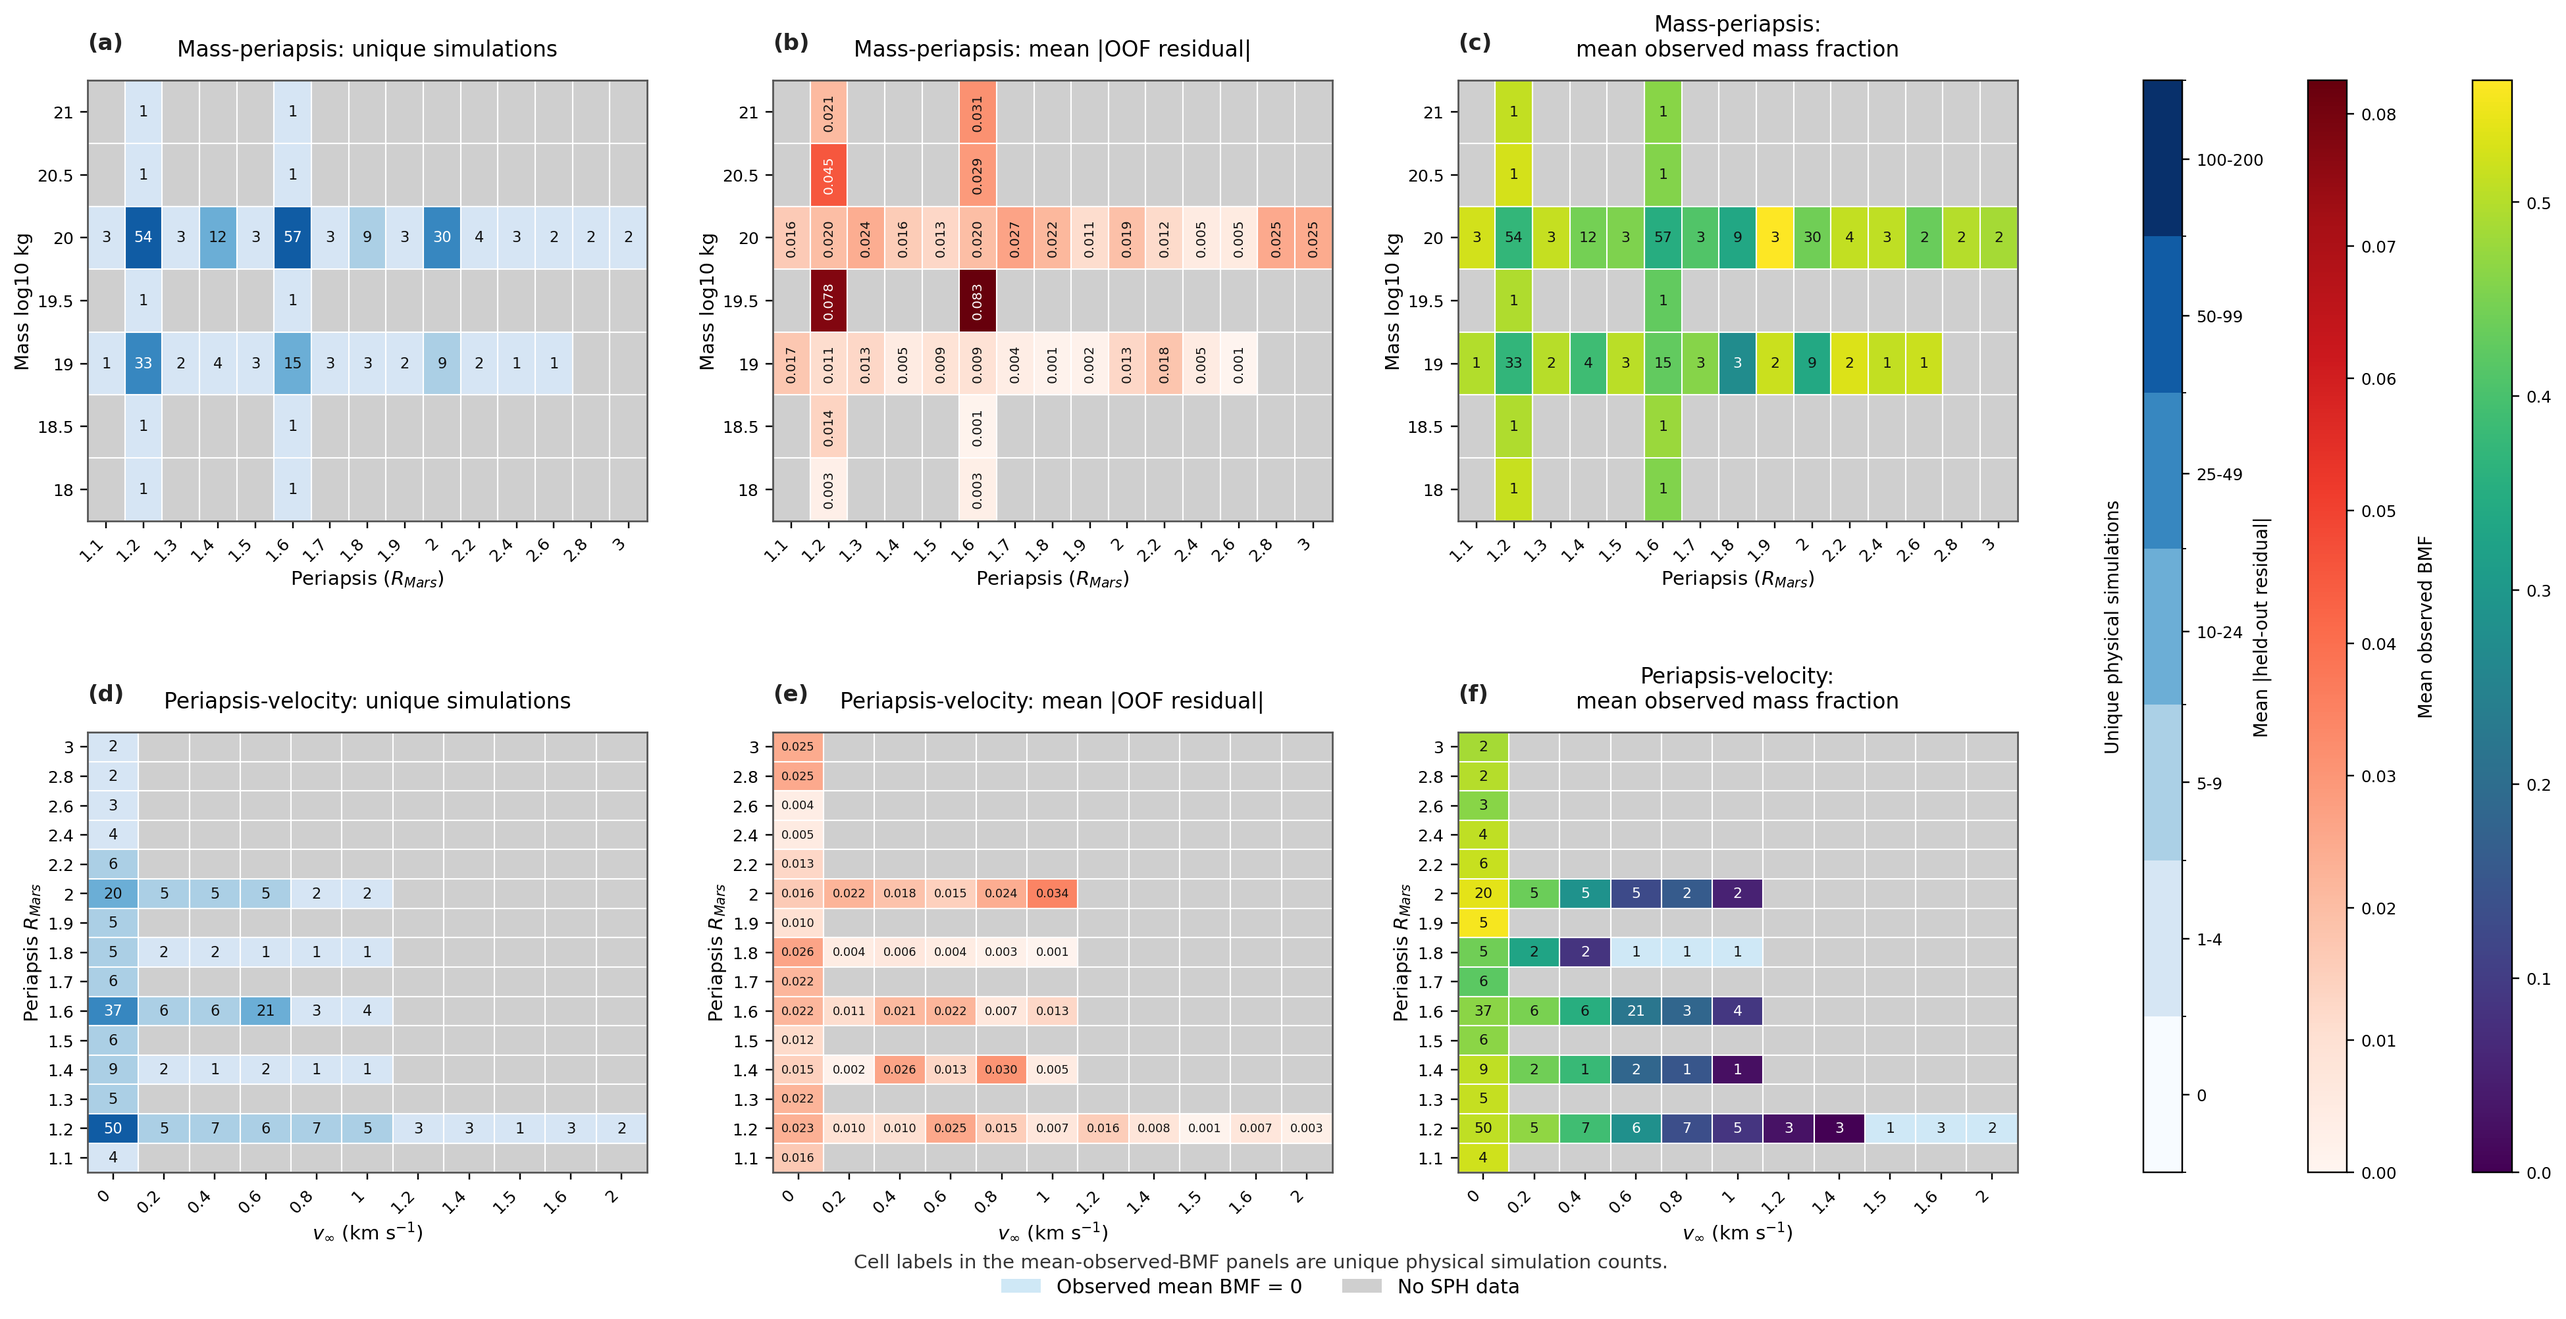
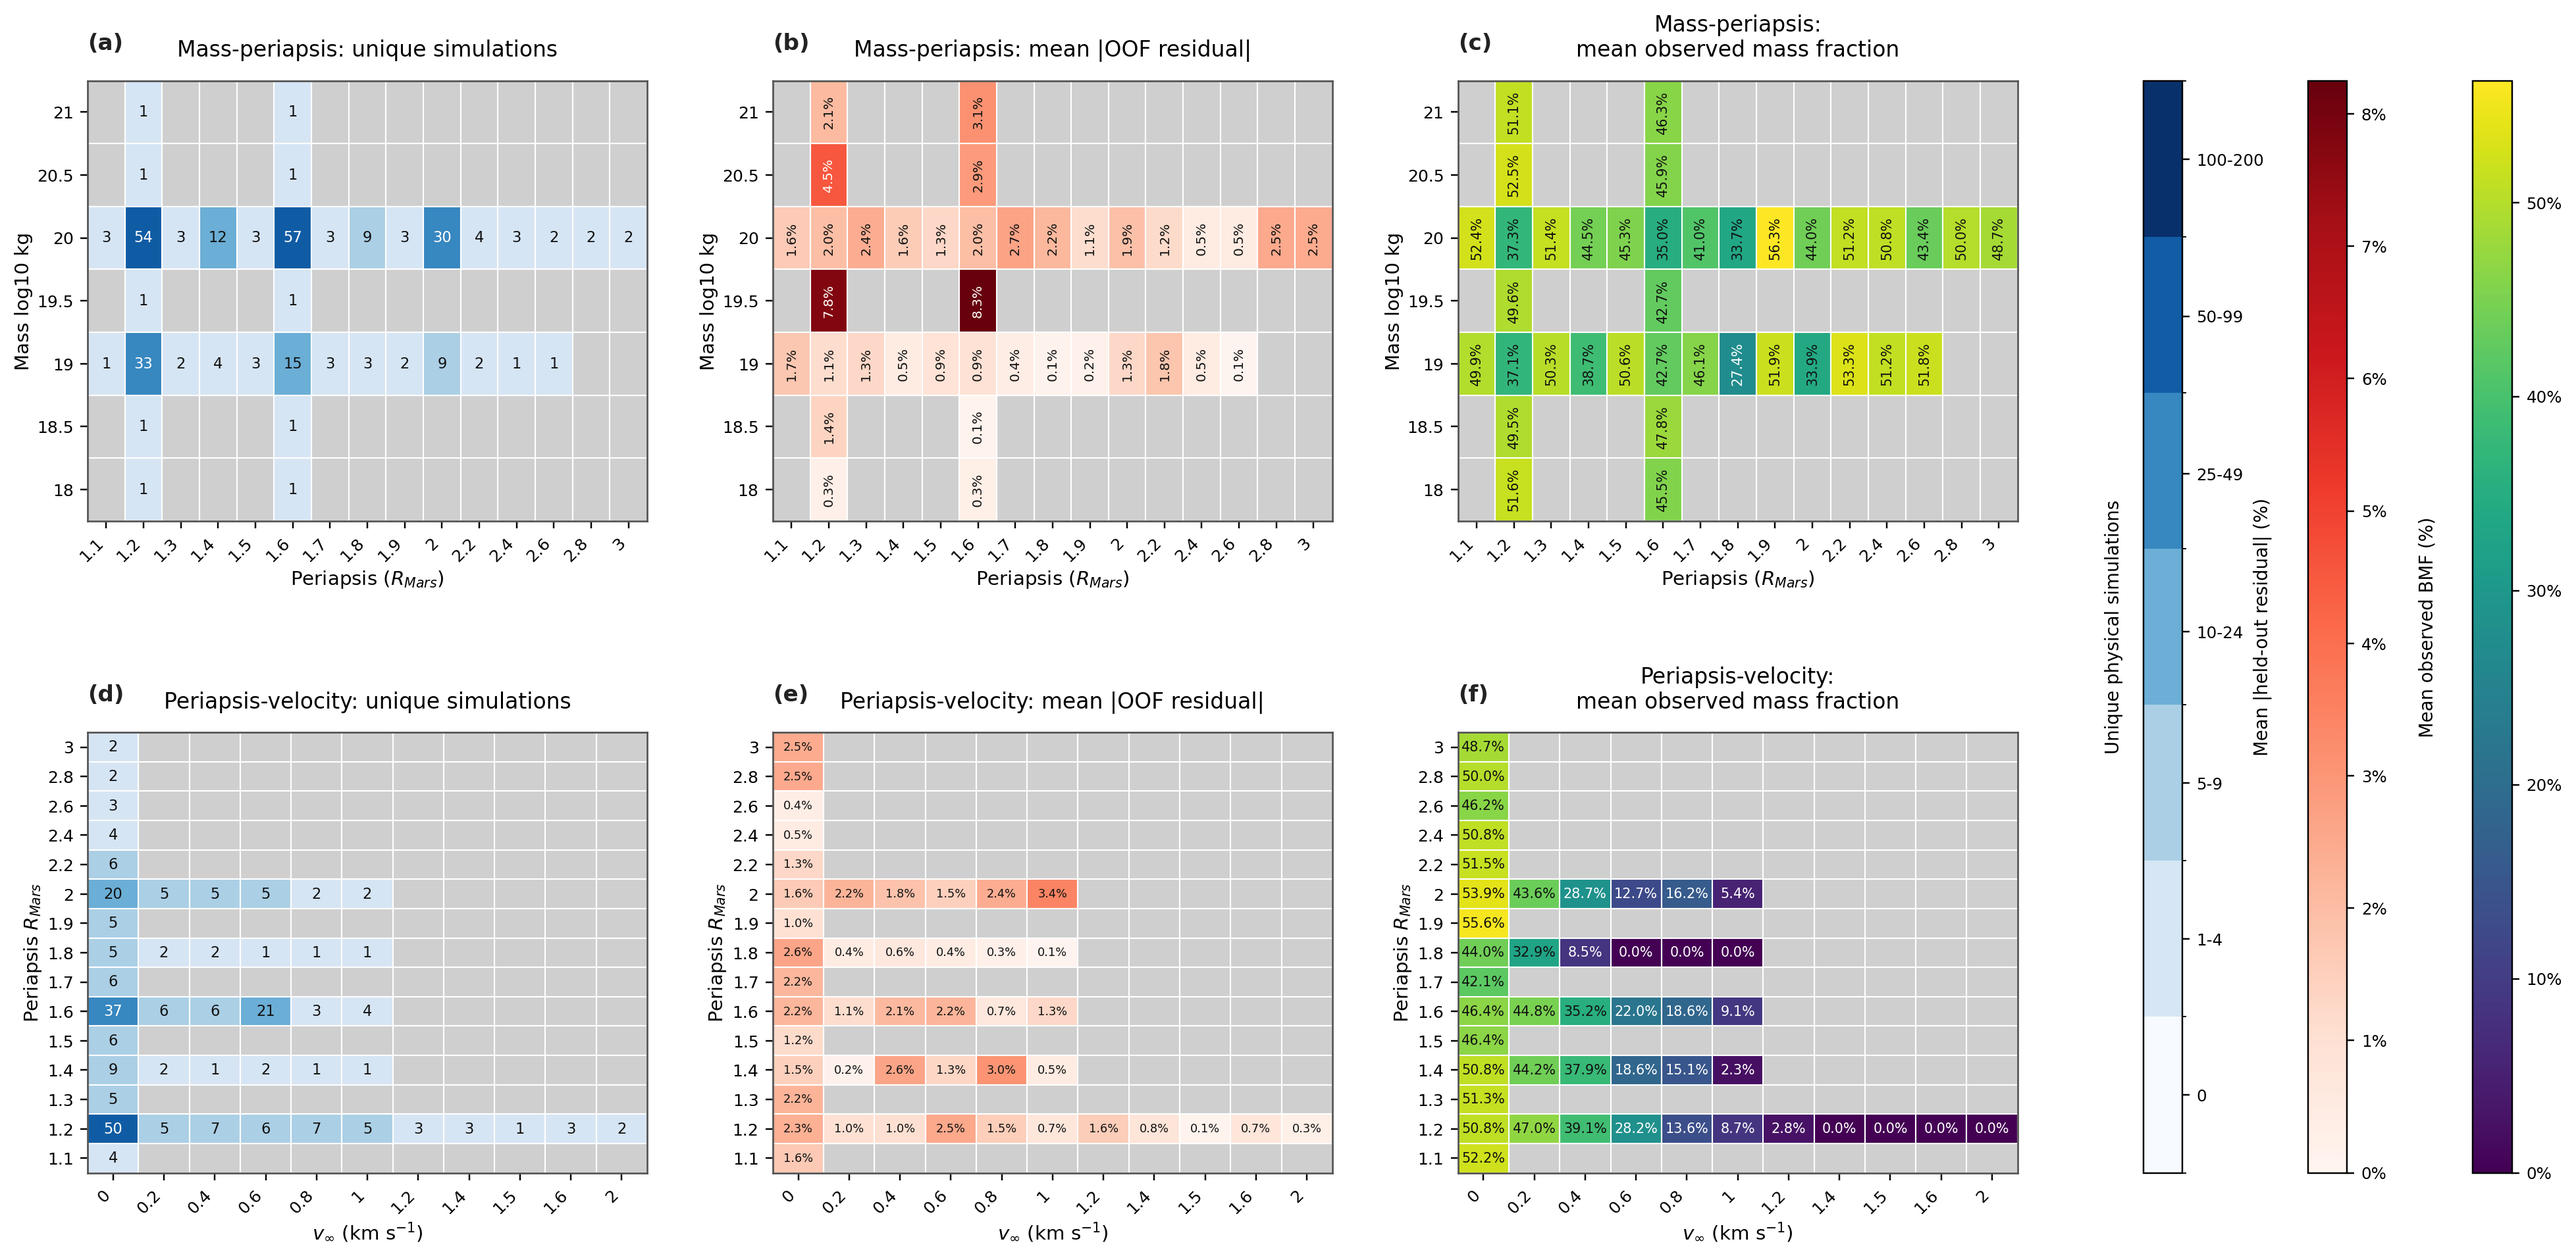
fix: figure 5 labelling to percentage

Changed region(s): [[0.0, 0.0, 0.9933, 0.9874], [0.031, 0.0309, 0.2483, 0.1234], [0.0, 0.1234, 0.031, 0.1543]]

diff --git a/report-table-figure/figures/figure5_build.py b/report-table-figure/figures/figure5_build.py
@@ -12,7 +12,7 @@ matplotlib.use("Agg")
 import matplotlib.pyplot as plt
 from matplotlib import colormaps
 from matplotlib.colors import BoundaryNorm, Normalize
-from matplotlib.patches import Patch
+from matplotlib.ticker import FuncFormatter
 import numpy as np
 import pandas as pd
 
@@ -28,7 +28,6 @@ SUPPORT_BOUNDS = [0, 1, 5, 10, 25, 50, 100, 201]
 SUPPORT_TICK_POSITIONS = [0.5, 3, 7.5, 17, 37, 74.5, 150]
 SUPPORT_TICK_LABELS = ["0", "1-4", "5-9", "10-24", "25-49", "50-99", "100-200"]
 PANEL_LABELS = ["(a)", "(b)", "(c)", "(d)", "(e)", "(f)"]
-ZERO_BMF_COLOR = "#cfe8f6"
 
 
 def parse_numeric_code(series: pd.Series, pattern: str, scale: float = 1.0) -> pd.Series:
@@ -99,6 +98,10 @@ def format_label(value: float | str) -> str:
     if abs(value - round(value)) < 1e-9:
         return f"{int(round(value))}"
     return f"{value:.1f}".rstrip("0").rstrip(".")
+
+
+def format_percent(value: float) -> str:
+    return f"{value * 100:.1f}%"
 
 
 def style_heatmap_axes(ax: plt.Axes, table: pd.DataFrame, x_label: str, y_label: str) -> None:
@@ -194,7 +197,7 @@ def draw_error_panel(
             ax.text(
                 col_idx,
                 row_idx,
-                f"{value:.3f}",
+                format_percent(value),
                 ha="center",
                 va="center",
                 rotation=text_rotation,
@@ -223,12 +226,6 @@ def draw_bmf_panel(
     masked = np.ma.masked_invalid(means)
     image = ax.imshow(masked, cmap=cmap, norm=norm, origin="lower", aspect="auto")
 
-    zero_mask = np.isfinite(means) & np.isclose(means, 0.0) & (counts > 0)
-    if np.any(zero_mask):
-        zero_overlay = np.ma.masked_where(~zero_mask, np.ones_like(means, dtype=float))
-        zero_cmap = matplotlib.colors.ListedColormap([ZERO_BMF_COLOR])
-        ax.imshow(zero_overlay, cmap=zero_cmap, origin="lower", aspect="auto", vmin=0.0, vmax=1.0)
-
     ax.set_title(title, fontsize=10.8, pad=12)
     style_heatmap_axes(ax, mean_table, x_label, y_label)
     add_panel_label(ax, panel_label)
@@ -237,12 +234,21 @@ def draw_bmf_panel(
             count = int(counts[row_idx, col_idx])
             if count > 0:
                 value = means[row_idx, col_idx]
-                if np.isfinite(value) and not np.isclose(value, 0.0):
+                if np.isfinite(value):
                     rgba = cmap(norm(value))
                     text_color = text_color_for_rgba(rgba)
                 else:
                     text_color = "#111111"
-                ax.text(col_idx, row_idx, f"{count}", ha="center", va="center", fontsize=7.2, color=text_color)
+                ax.text(
+                    col_idx,
+                    row_idx,
+                    format_percent(float(value)),
+                    ha="center",
+                    va="center",
+                    rotation=90 if panel_label == "(c)" else 0,
+                    fontsize=6.8,
+                    color=text_color,
+                )
     return image
 
 
@@ -363,31 +369,12 @@ def main() -> None:
     error_cbar.ax.tick_params(labelsize=8.0)
     bmf_cbar.ax.tick_params(labelsize=8.0)
     support_cbar.set_label("Unique physical simulations", fontsize=9.0, labelpad=10)
-    error_cbar.set_label("Mean |held-out residual|", fontsize=9.0, labelpad=18)
-    bmf_cbar.set_label("Mean observed BMF", fontsize=9.0, labelpad=18)
+    error_cbar.set_label("Mean |held-out residual| (%)", fontsize=9.0, labelpad=18)
+    bmf_cbar.set_label("Mean observed BMF (%)", fontsize=9.0, labelpad=18)
+    error_cbar.ax.yaxis.set_major_formatter(FuncFormatter(lambda value, _pos: f"{value * 100:.0f}%"))
+    bmf_cbar.ax.yaxis.set_major_formatter(FuncFormatter(lambda value, _pos: f"{value * 100:.0f}%"))
     for cbar in (support_cbar, error_cbar, bmf_cbar):
         cbar.ax.yaxis.set_label_position("left")
-
-    fig.legend(
-        handles=[
-            Patch(facecolor=ZERO_BMF_COLOR, edgecolor="none", label="Observed mean BMF = 0"),
-            Patch(facecolor=NO_DATA_COLOR, edgecolor="none", label="No SPH data"),
-        ],
-        loc="lower center",
-        bbox_to_anchor=(0.5, 0.01),
-        frameon=False,
-        ncol=2,
-        fontsize=9.8,
-    )
-    fig.text(
-        0.5,
-        0.04,
-        "Cell labels in the mean-observed-BMF panels are unique physical simulation counts.",
-        ha="center",
-        va="bottom",
-        fontsize=9.6,
-        color="#333333",
-    )
     fig.savefig(OUTPUT_PATH, bbox_inches="tight")
     plt.close(fig)
 
